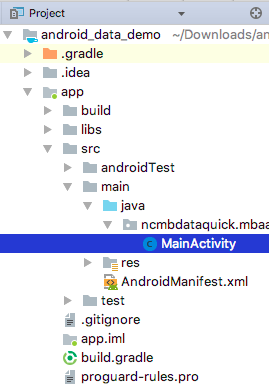
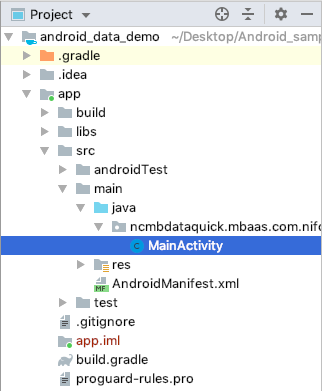
update readme and image

Changed region(s): [[0.0, 0.0, 1.0, 1.0]]

diff --git a/README.md b/README.md
@@ -14,7 +14,7 @@
 
 ## 動作環境
 
-* Android Studio ver. 3.1
+* Android Studio ver. 3.4.1
 * Android OS ver. 6.0
 * Android SDK v3
 
@@ -44,9 +44,9 @@
 * 下記リンクをクリックしてプロジェクトをダウンロードします
  * https://github.com/NIFCloud-mbaas/android_data_demo/archive/master.zip
 * ダウンロードしたプロジェクトを解凍します
-* AndroidStudio を開きます、「Open an existing Android Studio projct」をクリックして解凍したプロジェクトを選択します
+* AndroidStudio を開きます、「Open an existing Android Studio project」をクリックして解凍したプロジェクトを選択します
 
-![5554_Nexus_5_API_23_2.png](https://qiita-image-store.s3.amazonaws.com/0/18698/e6d33cfd-978d-8688-a7ad-de0e9bc90daf.png)
+![5554_Nexus_5_API_23_2.png](/readme-img/android_studio.png)
 
 * プロジェクトが開かれます
 
@@ -54,7 +54,7 @@
 
 ### 3. SDKの導入（実装済み）
 
-※このサンプルアプリには既にSDKが実装済み（下記手順）となっています。（ver.3.0.0)<br>　最新版をご利用の場合は入れ替えてご利用ください。
+※このサンプルアプリには既にSDKが実装済み（下記手順）となっています。（ver.3.0.2)<br>　最新版をご利用の場合は入れ替えてご利用ください。
 
 * SDKダウンロード
 SDKはここ（[SDK リリースページ](https://github.com/NIFCloud-mbaas/ncmb_android/releases)）から取得してください.
@@ -65,8 +65,8 @@ SDKはここ（[SDK リリースページ](https://github.com/NIFCloud-mbaas/ncm
   - app/build.gradleファイルに以下を追加します
 ```gradle
 dependencies {
-    compile 'com.google.code.gson:gson:2.3.1'
-    compile files('libs/NCMB.jar')
+    implementation 'com.google.code.gson:gson:2.3.1'
+    implementation files('libs/NCMB.jar')
 }
 ```
   - androidManifestの設定
@@ -124,7 +124,7 @@ import com.nifcloud.mbaas.core.NCMBObject;
     protected void onCreate(Bundle savedInstanceState) {
        <省略>
         //**************** APIキーの設定とSDKの初期化 **********************
-        NCMB.initialize(this, "YOUR_APPLICATION_KEY", "YOUR_CLIENT_KEY");
+        NCMB.initialize(this.getApplicationContext(), "YOUR_APPLICATION_KEY", "YOUR_CLIENT_KEY");
     }
 ```
 
